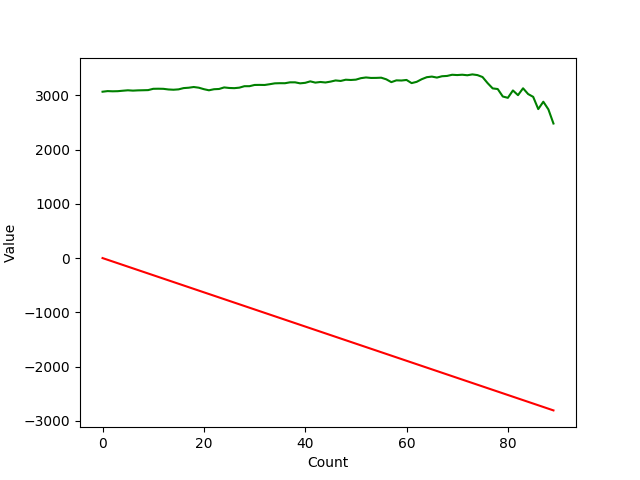
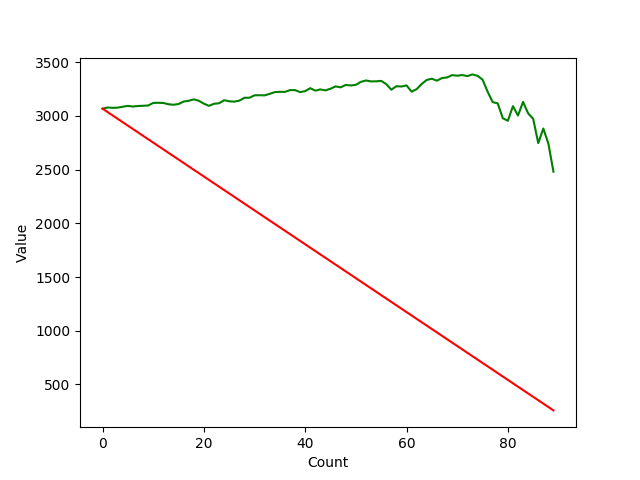
Automated Commision

diff --git a/prediction/sequential.py b/prediction/sequential.py
@@ -41,7 +41,7 @@ def regression_momentum_bias(timeseries, observation_range):
     high_low_slope = (timeseries.raw_datapoint(high) - timeseries.raw_datapoint(low)) / (high - low)
     
     slope = (high_low_slope + end_point_slope) / 2
-    line_bias = 0
+    line_bias = timeseries.raw_datapoint(0)
     
     #timeseries.raw_datapoint(timeseries.raw_size() / 2) - 
 
